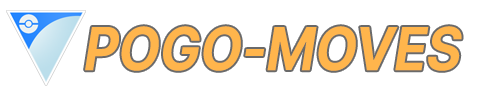
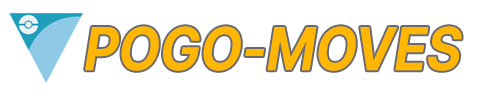
theme 업데이트

Changed region(s): [[0.0, 0.0938, 0.9688, 0.875]]

diff --git a/src/app/ThemeRegistry.tsx b/src/app/ThemeRegistry.tsx
@@ -1,0 +1,64 @@
+'use client'
+import createCache, { Options } from '@emotion/cache'
+import { CacheProvider } from '@emotion/react'
+import CssBaseline from '@mui/material/CssBaseline'
+import { ThemeProvider } from '@mui/material/styles'
+import theme from '@styles/theme'
+import { useServerInsertedHTML } from 'next/navigation'
+import { FC, ReactNode, useState } from 'react'
+
+const ThemeRegistry: FC<{ options: Options; children: ReactNode }> = ({
+  options,
+  children,
+}) => {
+  const [{ cache, flush }] = useState(() => {
+    const cache = createCache(options)
+    cache.compat = true
+    const prevInsert = cache.insert
+    let inserted: string[] = []
+    cache.insert = (...args) => {
+      const serialized = args[1]
+      if (cache.inserted[serialized.name] === undefined) {
+        inserted.push(serialized.name)
+      }
+      return prevInsert(...args)
+    }
+    const flush = () => {
+      const prevInserted = inserted
+      inserted = []
+      return prevInserted
+    }
+    return { cache, flush }
+  })
+
+  useServerInsertedHTML(() => {
+    const names = flush()
+    if (names.length === 0) {
+      return null
+    }
+    let styles = ''
+    for (const name of names) {
+      styles += cache.inserted[name]
+    }
+    return (
+      <style
+        key={cache.key}
+        data-emotion={`${cache.key} ${names.join(' ')}`}
+        dangerouslySetInnerHTML={{
+          __html: styles,
+        }}
+      />
+    )
+  })
+
+  return (
+    <CacheProvider value={cache}>
+      <ThemeProvider theme={theme}>
+        <CssBaseline />
+        {children}
+      </ThemeProvider>
+    </CacheProvider>
+  )
+}
+
+export default ThemeRegistry

diff --git a/src/app/layout.tsx b/src/app/layout.tsx
@@ -1,11 +1,9 @@
 import { NavigationBar } from '@components/NavigationBar'
 import '@styles/globals.css'
 import type { Metadata } from 'next'
-import { Inter } from 'next/font/google'
 // import Script from 'next/script'
 import { FC, ReactNode } from 'react'
-
-const inter = Inter({ subsets: ['latin'] })
+import ThemeRegistry from './ThemeRegistry'
 
 export const metadata: Metadata = {
   title: 'POGO-MOVES',
@@ -15,11 +13,13 @@ export const metadata: Metadata = {
 const RootLayout: FC<{ children: ReactNode }> = ({ children }) => {
   return (
     <html lang="ko">
-      <body className={inter.className}>
-        <div className="max-w-[1920px] m-auto flex flex-col">
-          <NavigationBar />
-          {children}
-        </div>
+      <body>
+        <ThemeRegistry options={{ key: 'mui' }}>
+          <div className="max-w-[1920px] m-auto flex flex-col">
+            <NavigationBar />
+            {children}
+          </div>
+        </ThemeRegistry>
       </body>
       {/* <Script
         async

diff --git a/src/styles/globals.css b/src/styles/globals.css
@@ -5,28 +5,18 @@
 @tailwind components;
 @tailwind utilities;
 
-:root {
-  --foreground-rgb: 0, 0, 0;
-  --background-start-rgb: 214, 219, 220;
-  --background-end-rgb: 255, 255, 255;
-}
-
-@media (prefers-color-scheme: dark) {
-  :root {
-    --foreground-rgb: 255, 255, 255;
-    --background-start-rgb: 34, 40, 49;
-    --background-end-rgb: 34, 40, 49;
-  }
-}
-
 body {
-  color: rgb(var(--foreground-rgb));
-  background: linear-gradient(
-      to bottom,
-      transparent,
-      rgb(var(--background-end-rgb))
-    )
-    rgb(var(--background-start-rgb));
+  background: #023047;
+}
+
+body::-webkit-scrollbar {
+  width: 4px;
+  background-color: transparent;
+}
+
+body::-webkit-scrollbar-thumb {
+  border-radius: 2px;
+  background-color: #8ecae640;
 }
 
 input::-webkit-inner-spin-button {

diff --git a/src/components/NavigationBar.tsx b/src/components/NavigationBar.tsx
@@ -67,7 +67,7 @@ export const NavigationBar: FC = () => {
       </TitleBannerWrapper>
       <div>
         <Button
-          variant="outlined"
+          variant="contained"
           onClick={() => {
             router.push('/moves/fast')
           }}
@@ -75,7 +75,7 @@ export const NavigationBar: FC = () => {
           Fast Moves
         </Button>
         <Button
-          variant="outlined"
+          variant="contained"
           onClick={() => {
             router.push('/moves/charge')
           }}

diff --git a/src/styles/theme.ts b/src/styles/theme.ts
@@ -1,0 +1,22 @@
+import { createTheme } from '@mui/material'
+import { POGO_MOVES_COLORS } from './colors'
+
+const theme = createTheme({
+  palette: {
+    background: {
+      default: POGO_MOVES_COLORS.background,
+      paper: POGO_MOVES_COLORS.white,
+    },
+    primary: {
+      main: POGO_MOVES_COLORS.primary,
+    },
+    secondary: {
+      main: POGO_MOVES_COLORS.secondary,
+    },
+  },
+  components: {
+    MuiButton: {},
+  },
+})
+
+export default theme

diff --git a/src/styles/colors.ts b/src/styles/colors.ts
@@ -1,0 +1,22 @@
+export const POGO_MOVES_COLORS = {
+  white: '#ffffff',
+  black: '#040404',
+  gray: {
+    1: '#E6E6E6',
+    2: '#CDCDCD',
+    3: '#B4B4B4',
+    4: '#9B9B9B',
+    5: '#828282',
+    6: '#696969',
+    7: '#4F4F4F',
+    8: '#363636',
+    9: '#1D1D1D',
+    10: '#101010',
+  },
+  primary: '#fb8500',
+  secondary: '#219ebc',
+  tertiary: '#8ecae6',
+  surface: '#ffb703',
+  error: '#fb002f',
+  background: '#023047',
+}
